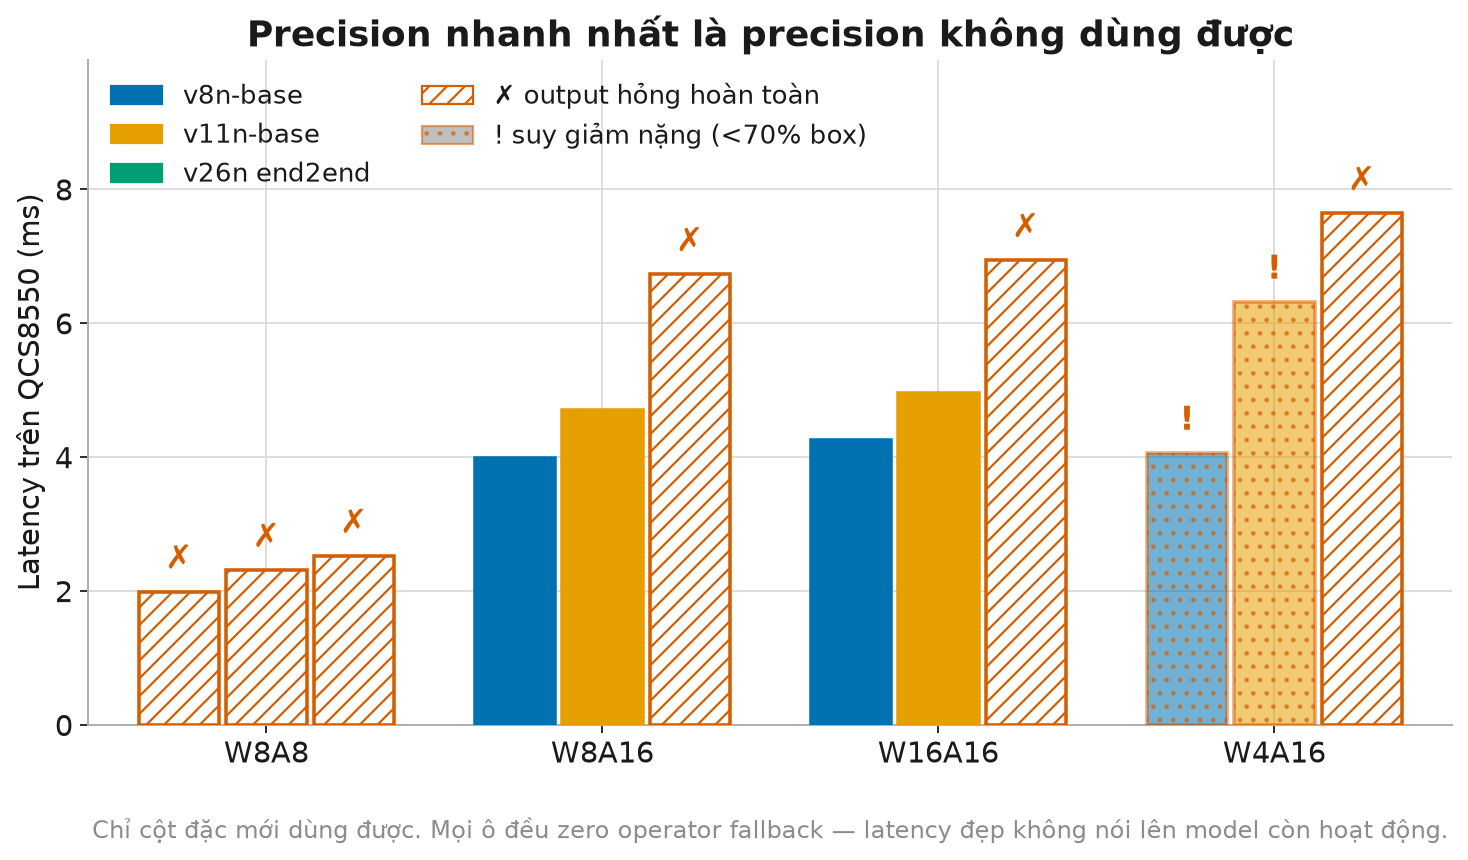
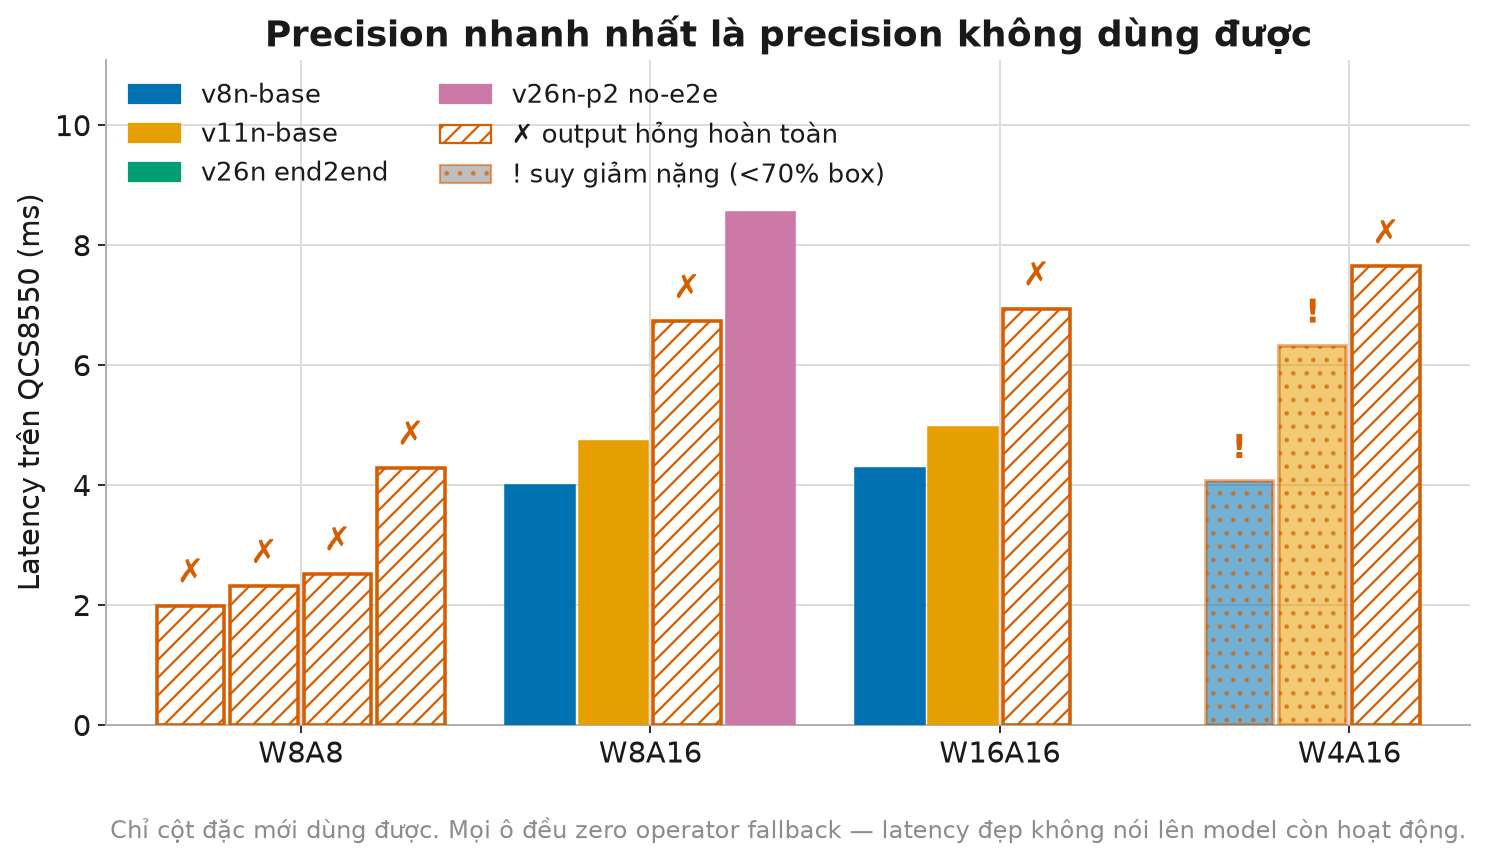
Add v26n-p2 to the quantization matrix: w8a8 now fails five for five
p2 quantizes cleanly at w8a16 -- 354 valid boxes against fp32's 374, confidence
correlation 0.9982 -- and fails at w8a8 like everything else.

  model            w8a8      w8a16     verdict
  v8n-base        1.992 ms  3.984 ms   w8a16 ok
  v11n-base       2.315     4.710      w8a16 ok
  v26n end2end    2.525     6.732      nothing works
  v26n no-e2e     2.439     4.935      w8a16 ok
  v26n-p2 no-e2e  4.288     8.531      w8a16 ok

Eight of sixteen quantized configurations are unusable and every one of them
reports good latency with zero operator fallback.

w8a8 collapsing the classification head five times out of five, across three
architectures and both export modes, is what turns it from an observation into
a property of the detect head. One model failing is anecdote; five is a
finding.

p2 is also the counterexample to reading latency off parameter count: second
smallest at 2.662 M and slowest at 8.531 ms, because the stride-4 branch takes
the anchor count from 8 400 to 34 000. Parameters, FLOPs and NPU latency rank
these four models three different ways.

diff --git a/4-bench/make_figures.py b/4-bench/make_figures.py
@@ -72,7 +72,8 @@ def fig_quant_trap(root, out):
     """Latency next to usability. The point is that they disagree."""
     models = [("v8n-base", "quant_matrix_v8n.csv", "quant_check_v8n.csv"),
               ("v11n-base", "quant_matrix_v11n.csv", "quant_check_v11n.csv"),
-              ("v26n end2end", "quant_matrix_v26n.csv", "quant_check_v26n.csv")]
+              ("v26n end2end", "quant_matrix_v26n.csv", "quant_check_v26n.csv"),
+              ("v26n-p2 no-e2e", "quant_matrix_v26n_p2.csv", "quant_check_v26n_p2.csv")]
     prec = ["w8a8", "w8a16", "w16a16", "w4a16"]
 
     # Three states, not two. A binary usable/broken flag calls w4a16 a pass
@@ -97,10 +98,10 @@ def fig_quant_trap(root, out):
     hi = max(v for L in lat.values() for v in L if not np.isnan(v))
     fig, ax = plt.subplots(figsize=(11, 5.4))
     x = np.arange(len(prec))
-    w = 0.26
+    w = 0.21
     for i, (name, _, _) in enumerate(models):
-        off = (i - 1) * w
-        base = [BLUE, ORANGE, GREEN][i]
+        off = (i - 1.5) * w
+        base = [BLUE, ORANGE, GREEN, PURPLE][i]
         for j, (v, st) in enumerate(zip(lat[name], state[name])):
             if np.isnan(v):
                 continue
@@ -126,7 +127,7 @@ def fig_quant_trap(root, out):
     ax.margins(x=0.04)
 
     handles = [Patch(facecolor=c, edgecolor=c, label=n)
-               for (n, _, _), c in zip(models, [BLUE, ORANGE, GREEN])]
+               for (n, _, _), c in zip(models, [BLUE, ORANGE, GREEN, PURPLE])]
     handles.append(Patch(facecolor="white", edgecolor=RED, hatch="///",
                          label="✗ output hỏng hoàn toàn"))
     handles.append(Patch(facecolor=GREY, edgecolor=RED, hatch="..", alpha=.55,

diff --git a/docs/EDGE_BENCHMARK.md b/docs/EDGE_BENCHMARK.md
@@ -26,7 +26,7 @@ same batch (32), seed (0), epochs (30, or 45 for p2) and no frozen layers.
 | v8n-base | 3.157 M | 8.86 | 8/16/32 | 8 400 | 12.27 MB | 3.67 MB | 3.34× |
 | v11n-base | 2.624 M | 6.67 | 8/16/32 | 8 400 | 10.61 MB | 3.44 MB | 3.09× |
 | v26n-base | 2.572 M | 6.24 | 8/16/32 | 8 400 | 9.81 MB | 3.38 MB | 2.90× |
-| v26n-p2 | 2.662 M | 9.65 | **4**/8/16/32 | **34 000** | 10.46 MB | — | — |
+| v26n-p2 | 2.662 M | 9.65 | **4**/8/16/32 | **34 000** | 10.46 MB | 3.39 MB | 3.09× |
 
 p2 carries the fewest-but-one parameters and the *most* compute: the stride-4
 branch runs at 160×160, so it costs 1.5× the GFLOPs of v26n-base for 3.5% more
@@ -92,12 +92,12 @@ never the constraint.
 
 ### Latency (ms), AI Hub on QCS8550
 
-| | v8n | v11n | v26n e2e | v26n no-e2e |
-|---|---:|---:|---:|---:|
-| w8a8 | 1.992 | 2.315 | 2.525 | 2.439 |
-| **w8a16** | **3.984** | **4.710** | 6.732 | **4.935** |
-| w16a16 | 4.263 | 4.955 | 6.942 | — |
-| w4a16 | 4.062 | 6.319 | 7.644 | — |
+| | v8n | v11n | v26n e2e | v26n no-e2e | v26n-p2 no-e2e |
+|---|---:|---:|---:|---:|---:|
+| w8a8 | 1.992 | 2.315 | 2.525 | 2.439 | 4.288 |
+| **w8a16** | **3.984** | **4.710** | 6.732 | **4.935** | **8.531** |
+| w16a16 | 4.263 | 4.955 | 6.942 | — | — |
+| w4a16 | 4.062 | 6.319 | 7.644 | — | — |
 
 ### Which of those actually work
 
@@ -107,15 +107,22 @@ never the constraint.
 | v11n | ✗ conf→0 | ✓ 237 | ✓ 246 | ⚠ 29/52 |
 | v26n **end2end** | ✗ conf→0 | ✗ **box→point** | ✗ box→point | ✗ box→point |
 | v26n no-e2e | ✗ conf→0 | ✓ 260 | — | — |
+| v26n-p2 no-e2e | ✗ conf→0 | ✓ 354 | — | — |
 
-**Seven of fourteen quantized configurations are unusable, and every one of
-them reports good latency.**
+**Eight of sixteen quantized configurations are unusable, and every one of them
+reports good latency.**
 
-**w8a8 collapses the classification head on all four models** — every class
-score exactly 0.0 while box regression stays healthy. Independent of
-architecture and of export mode. Per-tensor int8 fits one scale to a sigmoid
-that is near-zero almost everywhere with a handful of sharp peaks, and the
-peaks do not survive.
+**w8a8 collapses the classification head on all five** model/export
+combinations — every class score exactly 0.0 while box regression stays
+healthy. Five for five, across three architectures and both export modes, is
+what makes this a property of the detect head rather than of any one model.
+Per-tensor int8 fits one scale to a sigmoid that is near-zero almost everywhere
+with a handful of sharp peaks, and the peaks do not survive it.
+
+**p2 is the slowest quantized model by a wide margin** — 8.531 ms against v8n's
+3.984 — because its stride-4 branch quadruples the anchor count to 34 000. Its
+parameter count (2.662 M, second smallest) predicts the opposite of its latency
+ranking, which is the same lesson as §1 seen from the other end.
 
 **w4a16 degrades without failing, which is worse.** v11n keeps 29 valid boxes
 against fp32's 244, confidence correlation falls to 0.726, and mean box size
@@ -272,8 +279,6 @@ exposes three power sources and none of them is instrumentation.
 - **Tiled inference on the board.** §7 blocks the NPU path; the CPU-side cost
   in §5 is measured, the NPU term is not.
 - **Sustained-throttle throughput** (§8).
-- **v26n-p2 quantized.** Its 34 000 anchors change the assigner arithmetic and
-  the head cost; the fp32 accuracy row is in §2.
 - **Energy**, and it will stay unmeasured on this board (§9).
 
 ## Reproducing
